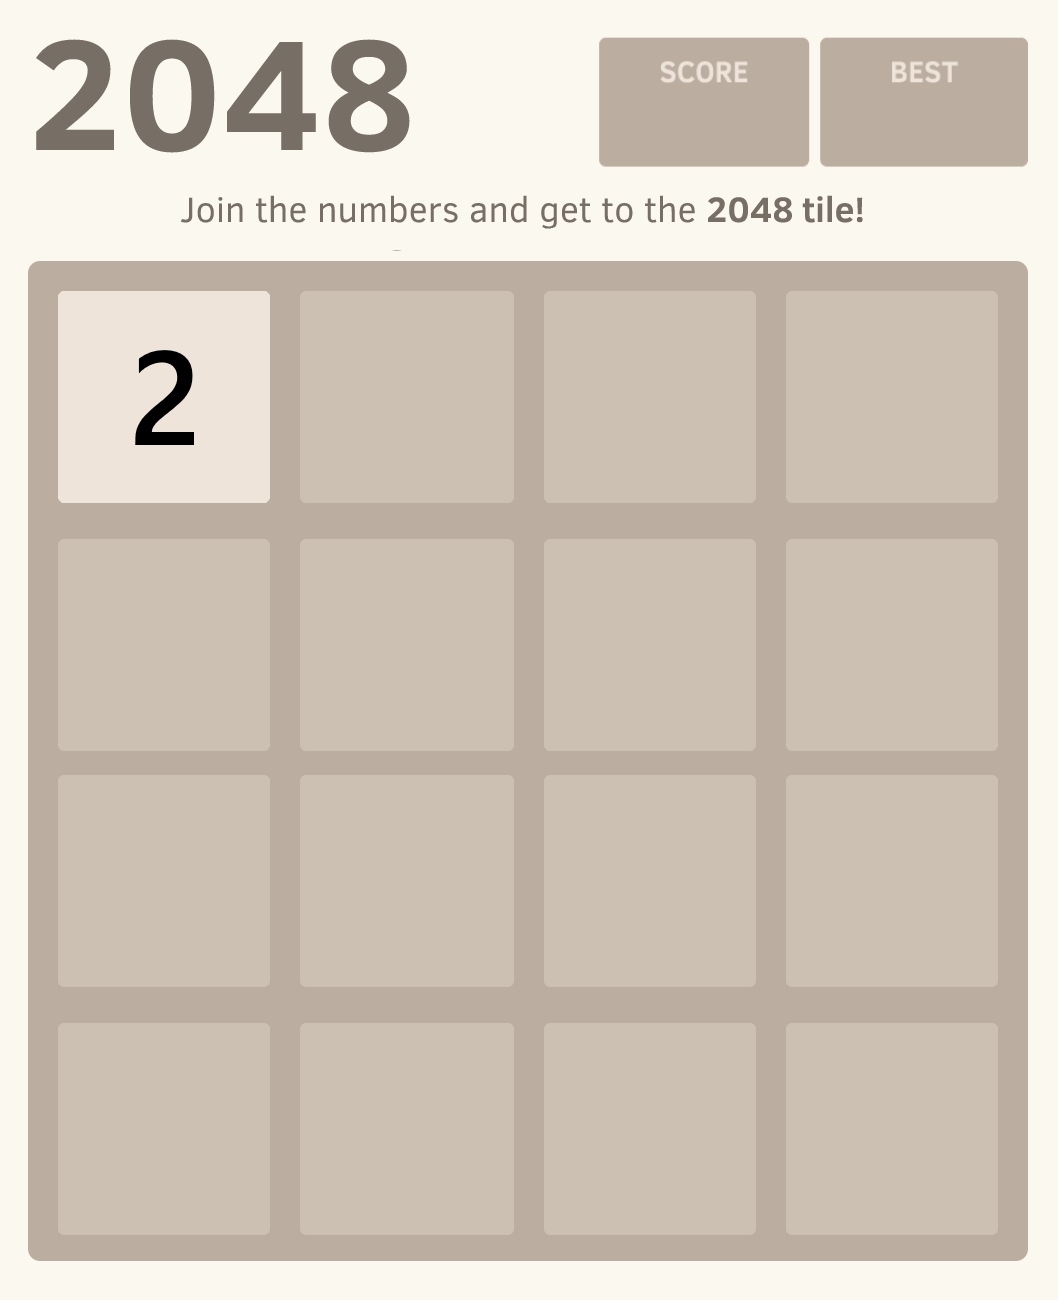
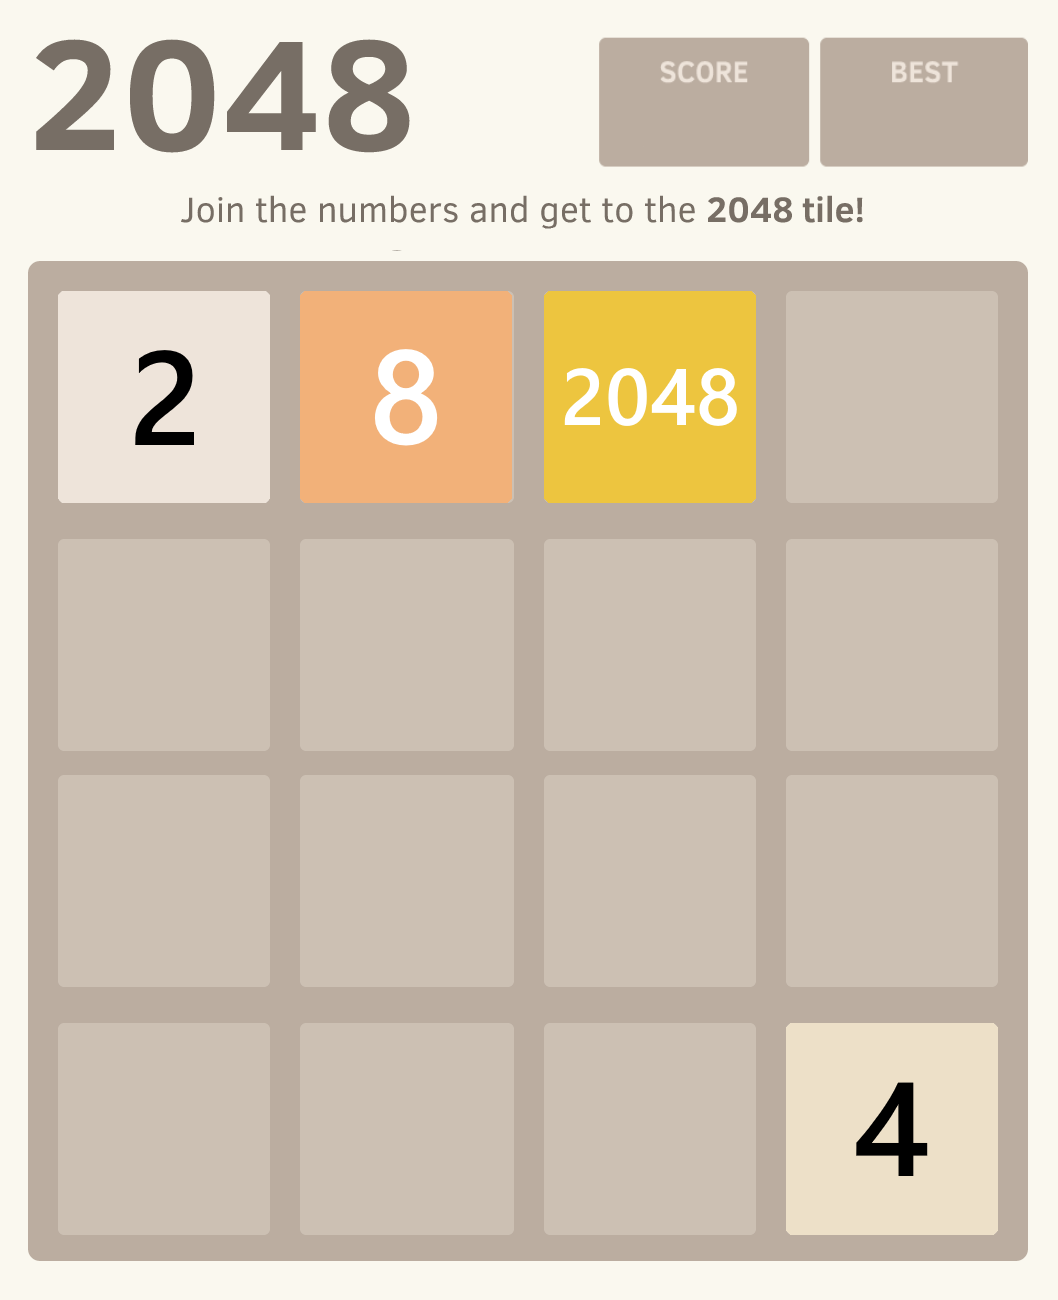
add slideleft

Changed region(s): [[0.2807, 0.2154, 0.7174, 0.4], [0.7174, 0.7692, 0.9669, 0.9538]]

diff --git a/main.py b/main.py
@@ -20,6 +20,8 @@ def main():
 
     if issueType == "newgame":
         newGame(issue, issueAuthor)
+    elif issueType == "slideleft":
+        slidLeft(issue, issueAuthor)
 
 class createNewCurrentFile:
     def __init__(self, grid, score, bestScore, lastMoves):
@@ -57,17 +59,55 @@ def newGame(issue, issueAuthor):
 
     # End
     issueText = "New game created!"
-    endAction(grid, issue, issueAuthor, issueText)
+    endAction(grid, 0, issue, issueAuthor, issueText)
+
+def slidLeft(issue, issueAuthor):
+    """Slide up the grid"""
+    grid = getGrid()
+
+    score = 0
+    lastCase = False
+    for line in range(4):
+        for case in range(4):
+            if grid[line][case] is None:
+                lastCase = None
+            elif (lastCase is None) and (grid[line][case]):
+                grid[line][case-1] = grid[line][case]
+                grid[line][case] = None
+            elif (lastCase) and (grid[line][case]) and (lastCase == grid[line][case]):
+                score += grid[line][case]
+                grid[line][case-1] = grid[line][case] * 2
+                grid[line][case] = None
+                
+    issueText = "You slided to left!"
+    endAction(grid, score, issue, issueAuthor, issueText)
 
 
-def endAction(grid, issue, issueAuthor, issueText):
+def getGrid():
+    with open("Data/Games/current.json", "r") as _grid:
+        grid = _grid.read()
+        grid = json.load(grid)
+    return grid["grid"]
+
+def endAction(grid, score, issue, issueAuthor, issueText):
     """End the bot action"""
-    generateGameBoard(grid)      
+    generateGameBoard(grid)
+
+    # Update current.json
+    with open("Data/Games/current.json", "r") as _current:
+        current = _current.read()
+        current = json.load(current)
+        current["score"] += score
+        current["grid"] = grid
+    with open("Data/Games/current.json", "w") as _current:
+        currentFile = json.dumps(current.__dict__, indent=4, ensure_ascii=False) # Convert the object to json
+        _current.write(currentFile)
+
+    # Reply and close the issue
     issue.create_comment(f"{issueAuthor} {issueText}")
     issue.edit(state='closed')
 
-def test():
-    print(':(')
+
 
 if __name__ == "__main__":
 	main() 

diff --git a/Utils/generateGameBoard.py b/Utils/generateGameBoard.py
@@ -9,7 +9,7 @@ def generateGameBoard(grid):
             if grid[line][case] != None:
                 coordinates = gridToCoordinates(line, case)
                 # Open the case image
-                block = Image.open(f"Assets/{grid[line][case]}.png")
+                block = Image.open(f"Assets/{grid[line][case]}.png").convert('RGBA')
                 # Past
                 gameboard.paste(block, coordinates, block)
     
@@ -26,11 +26,11 @@ def gridToCoordinates(line, case):
 
     return coordinates[line][case]
 
-grid = [
-            [2, None, 8, None], 
-            [None, None, None, None], 
-            [None, None, None, None],
-            [None, None, None, 2048]
-        ]
-generateGameBoard(grid)
+# grid = [
+#             [2, 8, 2048, None], 
+#             [None, None, None, None], 
+#             [None, None, None, None],
+#             [None, None, None, 4]
+#         ]
+# generateGameBoard(grid)
     
